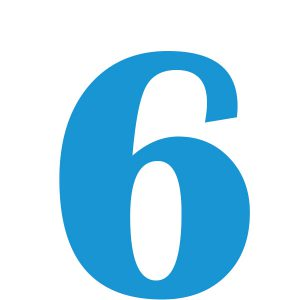
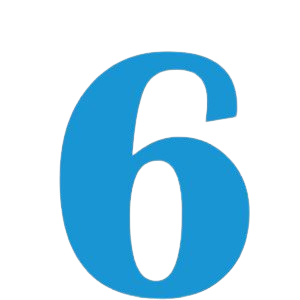
fixed images not showing for numbers

diff --git a/lib/pages/modules/numbers.dart b/lib/pages/modules/numbers.dart
@@ -52,21 +52,36 @@ class ItemTile extends StatelessWidget {
               ),
               LayoutBuilder(
                 builder: (BuildContext context, BoxConstraints constraints) {
+                  final isPng = item.iconAsset.endsWith('.png');
                   if (MediaQuery.of(context).orientation ==
                       Orientation.portrait) {
-                    return SvgPicture.asset(
-                      item.iconAsset,
-                      width: MediaQuery.of(context).size.width * 0.2,
-                      height: MediaQuery.of(context).size.height * 0.1,
-                      alignment: Alignment.center,
-                    );
+                    return isPng
+                        ? Image.asset(
+                            item.iconAsset,
+                            width: MediaQuery.of(context).size.width * 0.2,
+                            height: MediaQuery.of(context).size.height * 0.1,
+                            alignment: Alignment.center,
+                          )
+                        : SvgPicture.asset(
+                            item.iconAsset,
+                            width: MediaQuery.of(context).size.width * 0.2,
+                            height: MediaQuery.of(context).size.height * 0.1,
+                            alignment: Alignment.center,
+                          );
                   } else {
-                    return SvgPicture.asset(
-                      item.iconAsset,
-                      width: MediaQuery.of(context).size.width * 0.2,
-                      height: MediaQuery.of(context).size.height * 0.2,
-                      alignment: Alignment.center,
-                    );
+                    return isPng
+                        ? Image.asset(
+                            item.iconAsset,
+                            width: MediaQuery.of(context).size.width * 0.2,
+                            height: MediaQuery.of(context).size.height * 0.2,
+                            alignment: Alignment.center,
+                          )
+                        : SvgPicture.asset(
+                            item.iconAsset,
+                            width: MediaQuery.of(context).size.width * 0.2,
+                            height: MediaQuery.of(context).size.height * 0.2,
+                            alignment: Alignment.center,
+                          );
                   }
                 },
               ),
@@ -187,12 +202,19 @@ class _PopupDialogState extends State<_PopupDialog> {
                     onTap: () {
                       _speakText(currentItem.description);
                     },
-                    child: SvgPicture.asset(
-                      currentItem.iconAsset,
-                      width: MediaQuery.of(context).size.width * 0.5,
-                      height: MediaQuery.of(context).size.height * 0.3,
-                      alignment: Alignment.center,
-                    ),
+                    child: currentItem.iconAsset.endsWith('.png')
+                        ? Image.asset(
+                            currentItem.iconAsset,
+                            width: MediaQuery.of(context).size.width * 0.5,
+                            height: MediaQuery.of(context).size.height * 0.3,
+                            alignment: Alignment.center,
+                          )
+                        : SvgPicture.asset(
+                            currentItem.iconAsset,
+                            width: MediaQuery.of(context).size.width * 0.5,
+                            height: MediaQuery.of(context).size.height * 0.3,
+                            alignment: Alignment.center,
+                          ),
                   ),
                   const SizedBox(height: ConstantDimensions.heightMedium),
                   Text(

diff --git a/lib/pages/home.dart b/lib/pages/home.dart
@@ -64,7 +64,7 @@ class _MyHomePageState extends State<MyHomePage> {
               categoryCard(
                 context: context,
                 title: "NUMBERS", // Added this block for "NUMBERS"
-                image: 'assets/numbers/numbers.jpg',
+                image: 'assets/images/numbers/numbers.jpg',
                 shortDescription: "Learn numbers and their pronunciations.",
                 route: AllRoutesConstant.numberRoute,
                 index: 7,
